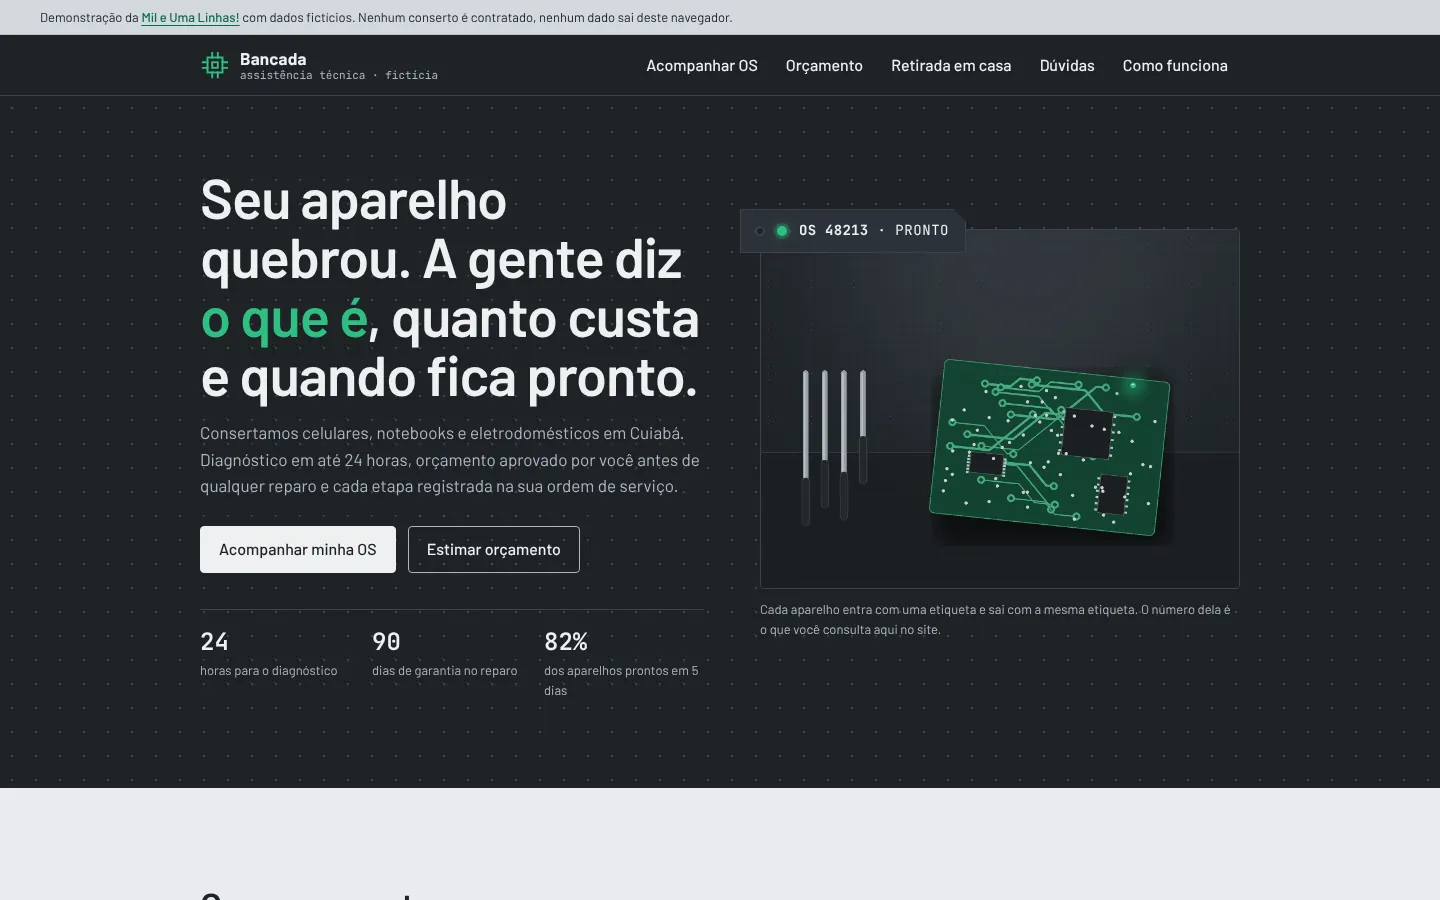
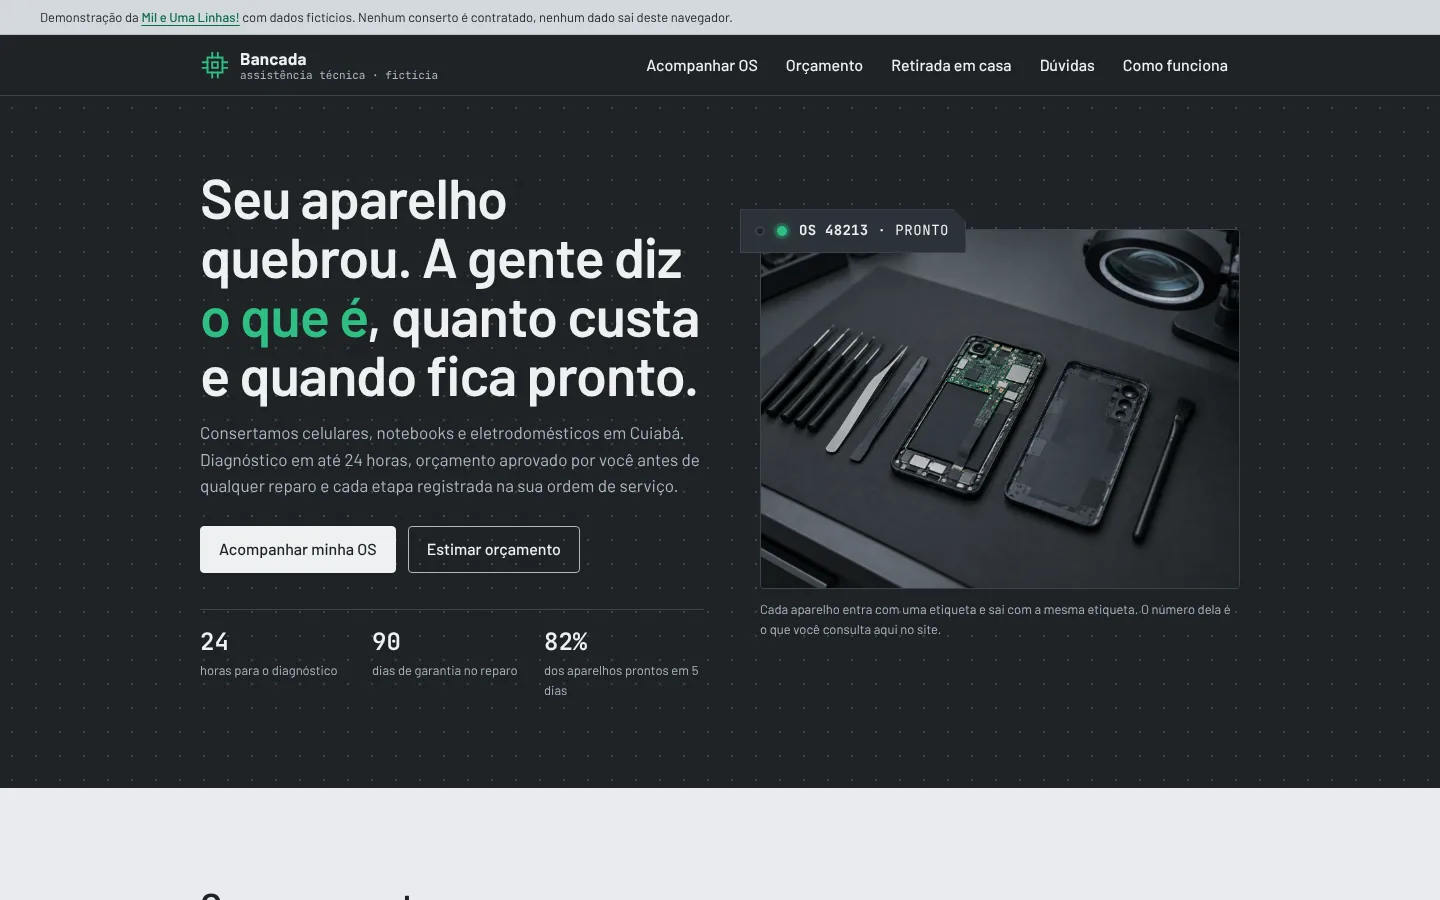
Troca o hero por foto gerada no Canva
Substitui img/hero.webp, antes uma composicao provisoria feita com
Pillow, por uma foto gerada por IA no Canva a partir do prompt da secao
"Foto do hero" de docs/identidade.md. Ajusta largura, altura e texto
alternativo da imagem no index.html, o teste de largura em
tests/site.cjs, o README e a documentacao, e refaz as capturas
docs/capa-desktop.webp e docs/capa-celular.webp. Testes em 1280x900,
iPhone 13 e 320px passando.

Claude-Session: https://claude.ai/code/session_015DVsuVad392kn1wvAjF541

Changed region(s): [[0.5312, 0.2489, 0.875, 0.6533]]

diff --git a/index.html b/index.html
@@ -57,7 +57,7 @@
         </div>
         <figure class="hero-figura entra entra-5">
           <div class="hero-moldura">
-            <img class="hero-foto" src="img/hero.webp" width="1600" height="1200" alt="Bancada de assistência técnica com tapete antiestático cinza-chumbo, ferramentas de precisão alinhadas e uma placa de circuito verde com um LED aceso." fetchpriority="high">
+            <img class="hero-foto" src="img/hero.webp" width="1440" height="1080" alt="Celular aberto sobre tapete antiestático, com pinças e chaves de precisão alinhadas ao lado e uma lupa com luz ao fundo." fetchpriority="high">
           </div>
           <p class="etiqueta hero-etiqueta" aria-label="Exemplo de etiqueta de ordem de serviço: OS 48213, pronto"><span class="led led-aceso" aria-hidden="true"></span><span><strong>OS 48213</strong> · pronto</span></p>
           <figcaption class="hero-legenda">Cada aparelho entra com uma etiqueta e sai com a mesma etiqueta. O número dela é o que você consulta aqui no site.</figcaption>

diff --git a/README.md b/README.md
@@ -45,7 +45,7 @@ O estudo completo está em [`docs/identidade.md`](docs/identidade.md).
 - **Paleta:** Chumbo `#1F2327` (fundos escuros e texto), Chumbo claro `#2C3238` (superfícies no escuro), Bancada `#E9ECEF` e Inox `#D3D8DE` (fundos claros), Grafite `#4F5A66` (texto de apoio), Verde-circuito `#2FBF83` (o LED, uma vez por tela) e Verde-placa `#0F6B47` (links sobre fundo claro). Fugi do azul-e-laranja de assistência de shopping e do azul-gelo que já usei no site de ar-condicionado.
 - **Fontes:** Barlow (texto, inspiração DIN de manual de serviço) e JetBrains Mono (todos os números: OS, datas, preços, prazos). Ambas locais, licença SIL OFL 1.1, na pasta `fonts/`.
 - **Movimento:** uma abertura só (texto e foto sobem com fade, o LED da etiqueta acende por último) e respostas a ações. Com "reduzir movimento" ativado no sistema, nada se mexe.
-- **Foto do hero:** `img/hero.webp` é provisória, gerada por mim com Pillow (composição abstrata nas cores da marca). O prompt para a foto definitiva está em `docs/identidade.md`, seção "Foto do hero".
+- **Foto do hero:** `img/hero.webp` é uma foto gerada por IA no Canva (1440x1080), feita a partir do prompt da seção "Foto do hero" de `docs/identidade.md`.
 
 ## Como funciona por dentro
 
@@ -74,7 +74,7 @@ index.html              a página
 css/estilo.css          toda a folha de estilo
 js/site.js              as quatro funções e os dados de exemplo
 fonts/                  Barlow e JetBrains Mono (woff2) com licenças
-img/hero.webp           imagem do hero (provisória)
+img/hero.webp           foto do hero (gerada por IA no Canva)
 docs/identidade.md      estudo de identidade visual e prompt da foto
 docs/vistoria.md        vistoria de segurança
 docs/*.webp             capturas

diff --git a/CLAUDE.md b/CLAUDE.md
@@ -11,4 +11,4 @@ Site de demonstração de uma assistência técnica fictícia (conserto de celul
 - Ao terminar uma alteração, entregue a mensagem de commit em dois blocos rotulados: "Título" (até 50 caracteres) e "Descrição" (estendida, com exatamente o que foi feito).
 - Entregue arquivos soltos, nunca em `.zip`.
 - O repositório é público: não coloque senhas, chaves secretas nem dados pessoais em arquivos versionados.
-- A foto do hero (`img/hero.webp`) é provisória, gerada com Pillow; o prompt para a foto definitiva está em `docs/identidade.md`, seção "Foto do hero". Ao trocar, mantenha 4:3 e 1600px de largura.
+- A foto do hero (`img/hero.webp`) é uma foto gerada por IA no Canva, a partir do prompt de `docs/identidade.md`, seção "Foto do hero". Ao trocar, mantenha 4:3 e 1440x1080.
